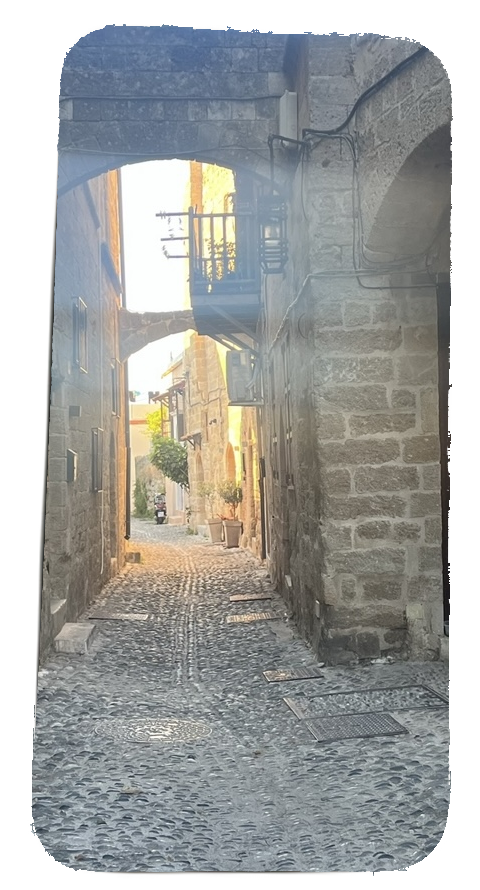
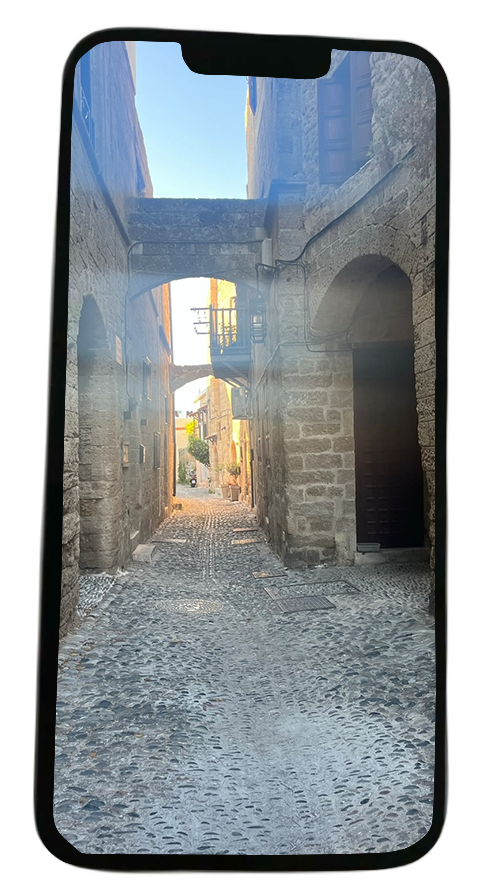
Add files via upload

diff --git a/index.html b/index.html
@@ -15,17 +15,38 @@
 
   </head>
 
-  <body>
+  <head>
 
     <script src="sketch.js"></script>
 
-  </body>
+  </head>
 
-<h1> Fragmented Realities </h1>
+<!--
+I chose for the title of my website to be called fragmented realities because i felt like it
+reflected the topic of what my interactive project is about.
+-->
+
+<head> 
+
+ <h1> Fragmented Realities </h1>
+
+</head>
+
+<!-- 
+I added a direction for the viewer to follow to click on the phone to reveal a selection of different 
+images.
+-->
 
 <body>
 
   <p2> click on the phone to be taken through a small portal into a curated collection of moments and places </p2>
+
+  </body>
+
+  <!--
+  I added travel photos taken and photoshoped by me to look like it is on a phone screen. I decided to do this 
+  because i wanted to show how phones can often create their own parallel worlds.
+   -->
 
   <img id="Image" src="phoneoff.png" onclick="PhoneSwitch()">
 
@@ -85,10 +106,14 @@ function PhoneSwitch() {
 }
 </script>
 
-  <body>
+<!--
+I added a button that when clicked on reveals a live version of some of the pictures that i converted into a gif.
+-->
 
 <p>
-    <a href="page-1.html">click</a> 
+    
+     <a href="page-1.html" class="btn">live</a>
+
     </p>
 
   </body>

diff --git a/style.css b/style.css
@@ -7,17 +7,41 @@ body {
   font-weight: bold;
   margin: 50px;
   text-align: center;
-  font-size: 40px;
+  font-size: 30px;
 }
 
 body {
   background: #ffc772;
 }
 
-a {
-  color: rgb(94, 20, 20);
+head {
+  font-family: 'Cinzel Decorative', cursive, Verdana, Geneva, Tahoma, sans-serif;
+  color: rgb(85, 21, 21);
   text-shadow: 2px 2px 5px rgb(187, 22, 22);
   font-weight: bold;
-  font-size: 40px;
+  margin: 50px;
+  text-align: center;
+  font-size: 60px;
   border-radius: 10%;
+}
+
+#Image {
+  display: block;
+  margin: 0 auto;
+}
+
+.btn {
+  display: inline-block;
+  padding: 10px 20px;
+  background: #ff6817;
+  color: white;
+  text-decoration: none;
+  border-radius: 8px;
+  font-size: 50px;
+  font-weight: bold;
+}
+
+.btn:hover {
+  background: #ffe375;
+  cursor: pointer;
 }

diff --git a/page-1.html b/page-1.html
@@ -1,11 +1,26 @@
- <!DOCTYPE html>
+<!DOCTYPE html>
 <html lang="en">
 
-  <head> 
-    
-    <img src="video/video.mov" 
-      alt="video" 
-      width="1450" 
-      height="500">
+<head>
 
-      </head>
+</head>
+
+<style> 
+
+body {
+  background: #000000;
+}
+
+</style>
+
+<body> 
+
+<img 
+src="gif/travel.gif" 
+alt="travel video" 
+width="1450" 
+height="820">
+
+</body>
+
+</html>

diff --git a/sketch.js b/sketch.js
@@ -14,7 +14,7 @@ function draw() {
   circle(950, i, 150, 150);
 
 
-  //mouth 
+  //rectangle 
 
   fill(255, 25, 0, 40);
   rect(i, 500, i, 60);
